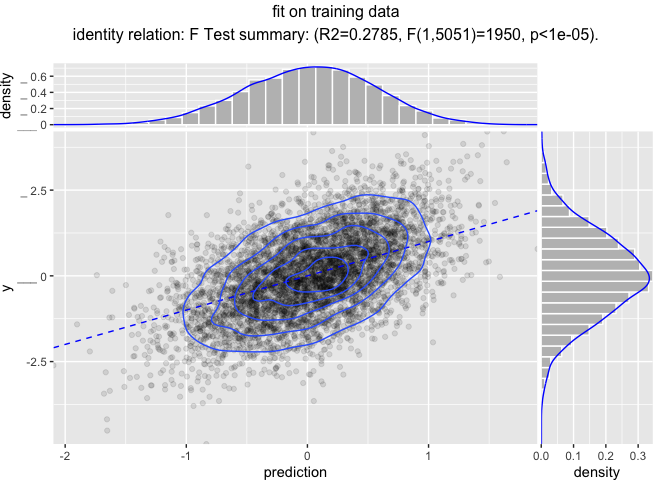
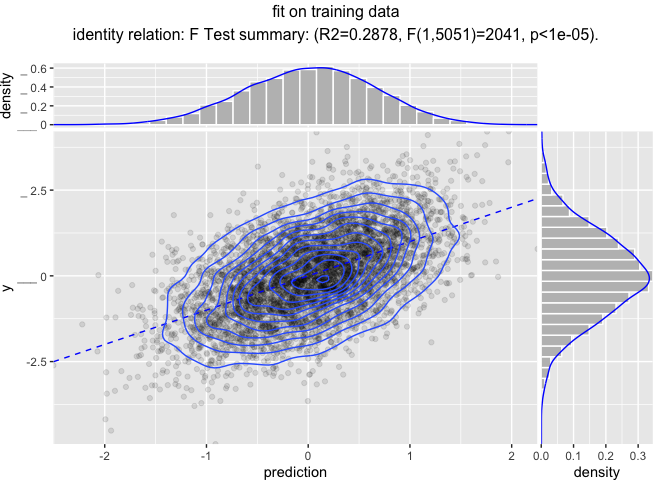
more careful use of cv

diff --git a/extras/ModelingPipelines.md b/extras/ModelingPipelines.md
@@ -75,9 +75,9 @@ cp <- vtreat::mkCrossFrameNExperiment(
   parallelCluster = cl)
 ```
 
-    ## [1] "vtreat 1.3.3 start initial treatment design Sun Nov 25 16:34:57 2018"
-    ## [1] " start cross frame work Sun Nov 25 16:34:59 2018"
-    ## [1] " vtreat::mkCrossFrameNExperiment done Sun Nov 25 16:35:03 2018"
+    ## [1] "vtreat 1.3.3 start initial treatment design Sun Nov 25 18:34:58 2018"
+    ## [1] " start cross frame work Sun Nov 25 18:35:01 2018"
+    ## [1] " vtreat::mkCrossFrameNExperiment done Sun Nov 25 18:35:06 2018"
 
 ``` r
 # get the list of new variables
@@ -109,7 +109,7 @@ tfs <- scale(cp$crossFrame[, newvars, drop = FALSE],
              scale = scaling)
 
 # build a cross-validation strategy to help us
-# search for a good alph hyper-parameter value
+# search for a good alpha hyper-parameter value
 cplan <- vtreat::kWayStratifiedY(
   nrow(dTrain), 5, dTrain, dTrain[[outcome_name]])
 # convert the plan to cv.glmnet group notation
@@ -121,7 +121,7 @@ for(i in seq_len(length(cplan))) {
 
 # search for best cross-validated alpha
 alphas <- seq(0, 1, by=0.05)
-cross_scores <- vapply(
+cross_scores <- lapply(
   alphas,
   function(alpha) {
     model <- cv.glmnet(as.matrix(tfs), 
@@ -131,25 +131,37 @@ cross_scores <- vapply(
                        standardize = FALSE,
                        foldid = foldid, 
                        parallel = TRUE)
-    index <- which(model$lambda == model$lambda.1se)[[1]]
+    index <- which(model$lambda == model$lambda.min)[[1]]
     score <- model$cvm[[index]]
-  }, numeric(1))
-best_i <- which(cross_scores==min(cross_scores))[[1]]
+    res <- data.frame(score = score, best_lambda = model$lambda.min)
+    res$lambdas <- list(model$lambda)
+    res
+  })
+cross_scores <- do.call(rbind, cross_scores)
+best_i <- which(cross_scores$score==min(cross_scores$score))[[1]]
 alpha <- alphas[[best_i]]
+lambda <- cross_scores$best_lambda[[best_i]]
+lambdas <- cross_scores$lambdas[[best_i]]
+lambdas <- lambdas[lambdas>=lambda]
 print(alpha)
 ```
 
-    ## [1] 0.65
+    ## [1] 0
+
+``` r
+print(lambda)
+```
+
+    ## [1] 0.02294242
 
 ``` r
 # re-fit model with chosen alpha
-model <- cv.glmnet(as.matrix(tfs), 
-                   cp$crossFrame[[outcome_name]],
-                   alpha = alpha,
-                   family = "gaussian", 
-                   standardize = FALSE,
-                   nfolds = 5, 
-                   parallel = TRUE)
+model <- glmnet(as.matrix(tfs), 
+                cp$crossFrame[[outcome_name]],
+                alpha = alpha,
+                family = "gaussian", 
+                standardize = FALSE,
+                lambda = lambdas)
 ```
 
 The question then is: how do we share such a model? Roughly we need to share the model, any fit parameters (such as centering and scaling choices), *and* the code sequence to apply all of these steps in the proper order.
@@ -171,10 +183,10 @@ pipeline <-
         arg_name = "x",
         args = list(center = centering,
                     scale = scaling))  %.>%
-  pkgfn("glmnet::predict.cv.glmnet",
+  pkgfn("glmnet::predict.glmnet",
         arg_name = "newx",
         args = list(object = model,
-                    s = "lambda.1se"))  %.>%
+                    s = lambda))  %.>%
   srcfn(".[, cname, drop = TRUE]",
         arg_name = ".",
         args = list(cname = "1"))
@@ -186,7 +198,7 @@ cat(format(pipeline))
     ##    vtreat::prepare(dframe=., treatmentplan, varRestriction),
     ##    base::subset(x=., select),
     ##    base::scale(x=., center, scale),
-    ##    glmnet::predict.cv.glmnet(newx=., object, s),
+    ##    glmnet::predict.glmnet(newx=., object, s),
     ##    SrcFunction{ .[, cname, drop = TRUE] }(.=., cname))
 
 The pipeline is a simple list of steps (with some class annotations added).
@@ -205,7 +217,7 @@ pipeline@items
     ## [1] "base::scale(x=., center, scale)"
     ## 
     ## [[4]]
-    ## [1] "glmnet::predict.cv.glmnet(newx=., object, s)"
+    ## [1] "glmnet::predict.glmnet(newx=., object, s)"
     ## 
     ## [[5]]
     ## [1] "SrcFunction{ .[, cname, drop = TRUE] }(.=., cname)"
@@ -232,8 +244,8 @@ And you can pipe data into the pipeline.
 dTrain %.>% pipeline %.>% head(.)
 ```
 
-    ##           1           2           3           4           5           6 
-    ## -0.47525463  0.37781506  0.10450622  0.31710969  0.37555403  0.02842425
+    ##          1          2          3          4          5          6 
+    ## -0.6001871  0.4630789  0.1521985  0.4012384  0.4333677  0.1035226
 
 Or you can use a functional notation [`ApplyTo()`](https://winvector.github.io/wrapr/reference/ApplyTo.html).
 
@@ -241,8 +253,8 @@ Or you can use a functional notation [`ApplyTo()`](https://winvector.github.io/w
 ApplyTo(pipeline, dTrain) %.>% head(.)
 ```
 
-    ##           1           2           3           4           5           6 
-    ## -0.47525463  0.37781506  0.10450622  0.31710969  0.37555403  0.02842425
+    ##          1          2          3          4          5          6 
+    ## -0.6001871  0.4630789  0.1521985  0.4012384  0.4333677  0.1035226
 
 The pipeline can be saved, and contains the required parameters in lists.
 
@@ -262,8 +274,8 @@ dTrain <- readRDS("dTrain.RDS")
 dTrain %.>% pipeline %.>% head(.)
 ```
 
-    ##           1           2           3           4           5           6 
-    ## -0.47525463  0.37781506  0.10450622  0.31710969  0.37555403  0.02842425
+    ##          1          2          3          4          5          6 
+    ## -0.6001871  0.4630789  0.1521985  0.4012384  0.4333677  0.1035226
 
 We can use this pipeline on different data, as we do to create performance plots below.
 
